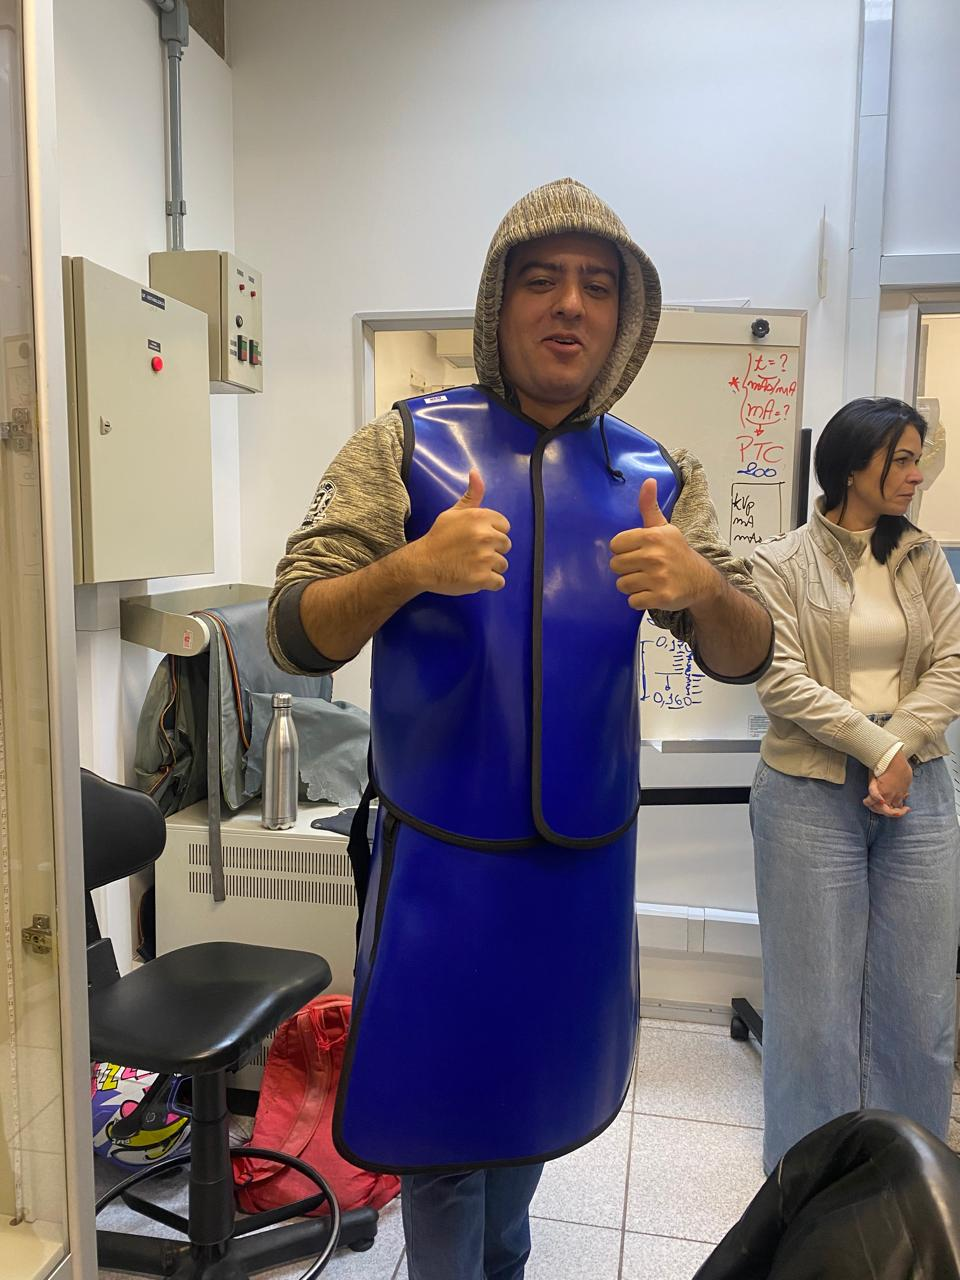
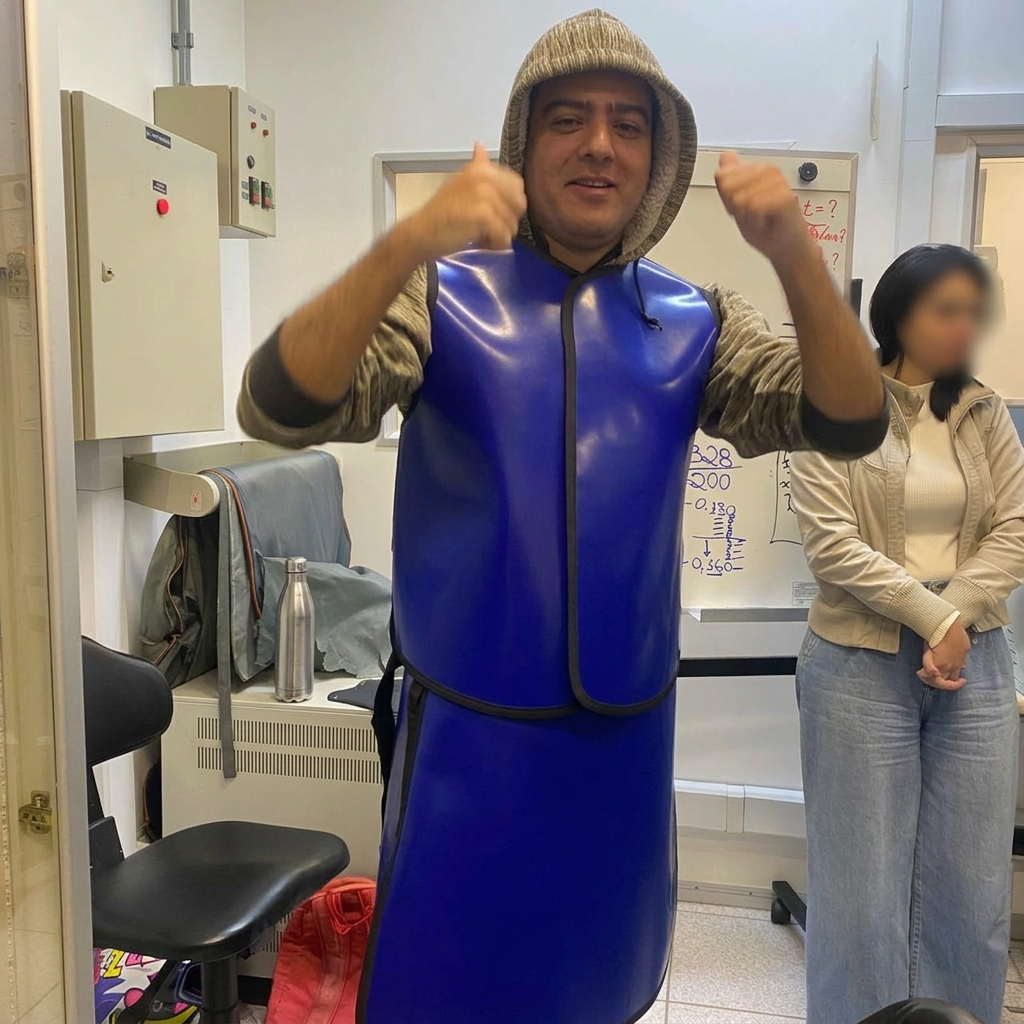
fix: remover repeticao de imagens, incluir infografico de EPIs e atualizar base legal

diff --git a/_posts/2026-05-12-uc1-biosseguranca-higienizacao-das-maos-paramentacao-e-nr32.md b/_posts/2026-05-12-uc1-biosseguranca-higienizacao-das-maos-paramentacao-e-nr32.md
@@ -10,9 +10,6 @@ image:
   alt: Paramentação correta com vestimenta de proteção radiológica plumbífera (avental de chumbo) em aula prática de laboratório
 ---
 
-![Paramentação correta com vestimenta de proteção plumbífera em aula prática de radiologia](/assets/img/posts/uc1-paramentacao-avental-chumbo.jpg)
-*Paramentação prática com vestimenta plumbífera completa durante aula no laboratório de radiologia do Senac Campinas.*
-
 No imaginário popular, o maior risco existente dentro de uma sala de raios X é a radiação ionizante. No entanto, na prática diária hospitalar e ambulatorial, o profissional das técnicas radiológicas convive com uma **dupla frente de risco**: o risco **físico** (da radiação) e o risco **biológico** (da contaminação cruzada por vírus, bactérias multirresistentes e fluidos corporais).
 
 Na **aula do dia 12 de maio de 2026 da UC1**, mergulhamos nos protocolos de biossegurança que transformam a teoria das normas regulamentadoras em procedimentos automáticos e salvaguardas de vida na rotina de exames.
@@ -61,7 +58,7 @@ flowchart TD
 
 ### O Passo a Passo dos 11 Movimentos da Lavagem das Mãos (Técnica Correta)
 
-![Passo a passo dos 7 movimentos da higienização das mãos](/assets/img/posts/uc1-passo-a-passo-lavagem-maos.jpg)
+![Passo a passo dos movimentos da higienização das mãos](/assets/img/posts/uc1-passo-a-passo-lavagem-maos.jpg)
 *Figura 1: Sequência ilustrada dos movimentos essenciais da higienização simples e antisséptica das mãos (Fonte: Protocolo Institucional e Diretrizes ANVISA/OMS).*
 
 1. **Abrir a torneira** e molhar as mãos com água corrente (sem encostar na pia).
@@ -109,17 +106,24 @@ A **NR-32 (Segurança e Saúde no Trabalho em Serviços de Saúde)**, emitida pe
 Além dos EPIs biológicos convencionais (máscara cirúrgica/N95, luvas e óculos de proteção), a radiologia exige a paramentação plumbífera para conter a radiação secundária (radiação espalhada por Efeito Compton):
 
 ```mermaid
-flowchart TD
-    subgraph EPIsPlumbiferos["Vestimentas de Proteção Radiológica"]
-        E1["Avental de Chumbo (Plumbífero)<br/>• Espessura: 0,25 mmPb a 0,50 mmPb<br/>• Protege tórax, abdômen e órgãos vitais"]
-        E2["Protetor de Tireoide<br/>• Espessura: 0,25 mmPb a 0,50 mmPb<br/>• Protege o epitélio glandular tireoidiano"]
-        E3["Protetor de Gônadas<br/>• Proteção testicular/ovariana contra efeitos genéticos"]
-        E4["Óculos Plumbíferos / Luvas Plumbíferas<br/>• Proteção do cristalino contra catarata e extremidades em escopia"]
-    end
+mindmap
+  root["🛡 Vestimentas de Proteção Radiológica (EPIs Plumbíferos)"]
+    ("Avental Plumbífero")
+      ["Espessura: 0,25 mmPb a 0,50 mmPb"]
+      ["Protege tórax, abdômen e gônadas"]
+    ("Protetor de Tireoide")
+      ["Espessura: 0,25 mmPb a 0,50 mmPb"]
+      ["Protege o epitélio glandular tireoidiano"]
+    ("Protetor de Gônadas")
+      ["Proteção testicular e ovariana"]
+      ["Reduz risco de efeitos estocásticos genéticos"]
+    ("Óculos e Luvas Plumbíferas")
+      ["Óculos com vidro plumbífero → previne catarata"]
+      ["Luvas plumbíferas → intervenções sob escopia"]
 ```
 
-![Paramentação prática com colete e saia plumbífera no laboratório de radiologia](/assets/img/posts/uc1-paramentacao-avental-chumbo-colete-saia.jpg)
-*Figura 4: Demonstração prática do uso do avental plumbífero bipartido (colete e saia de chumbo com sobreposição frontal) no laboratório de radiologia do Senac.*
+![Equipamentos de proteção individual plumbíferos e suporte de armazenamento](/assets/img/posts/uc1-biosseguranca-epis.jpg)
+*Figura 4: Armazenamento correto de vestimentas plumbíferas suspensas em suporte específico, acompanhadas de protetor de tireoide e dosímetro pessoal (TLD/OSL).*
 
 ---
 
@@ -154,7 +158,7 @@ Entre a realização de um exame e outro, a sala de raios X deve passar pela des
 | Etapa | Ação Obrigatória do Técnico | Base Legal |
 | :---: | :--- | :---: |
 | **Antes do Atendimento** | Retirar adornos, prender cabelos, conferir calçado fechado e lavar as mãos. | NR-32 |
-| **Preparo da Sala** | Desinfetar tampo da mesa, estativa vertical e colocar papel descartável novo. | RDC 611 / ANVISA |
+| **Preparo da Sala** | Desinfetar tampo da mesa, estativa vertical e colocar papel descartável novo. | ANVISA / RDC 50 |
 | **Preparo dos EPIs** | Inspecionar visualmente aventais plumbíferos nos cabides e separar protetor de tireoide. | CNEN NN 3.01 |
 | **Durante o Atendimento** | Higienizar as mãos / aplicar álcool 70% antes do toque e após posicionar o paciente. | Protocolo OMS |
 | **Após o Atendimento** | Descartar lençol de papel, desinfetar superfícies e receptor de imagem com álcool 70%. | ANVISA |
